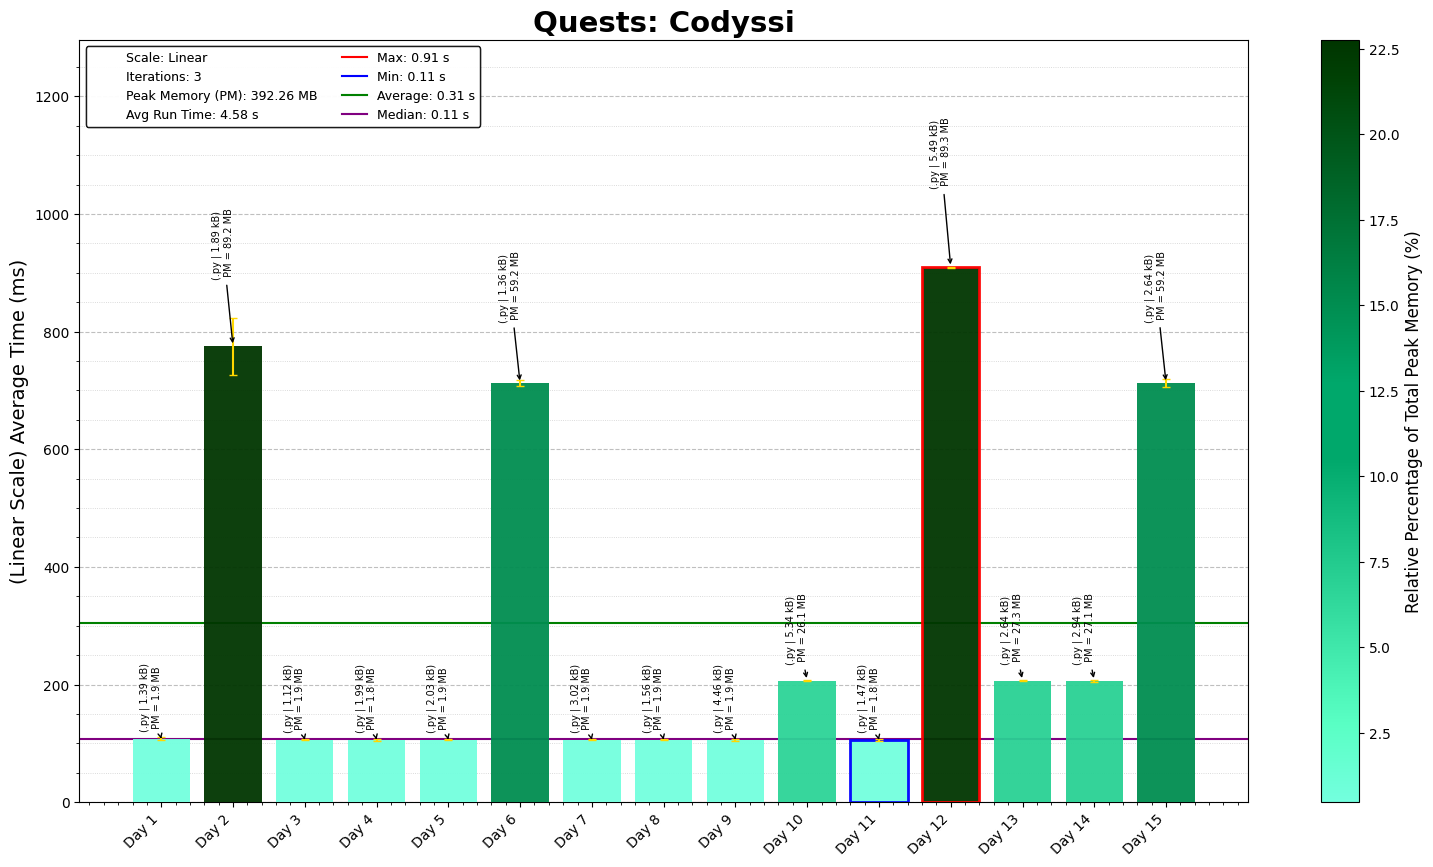
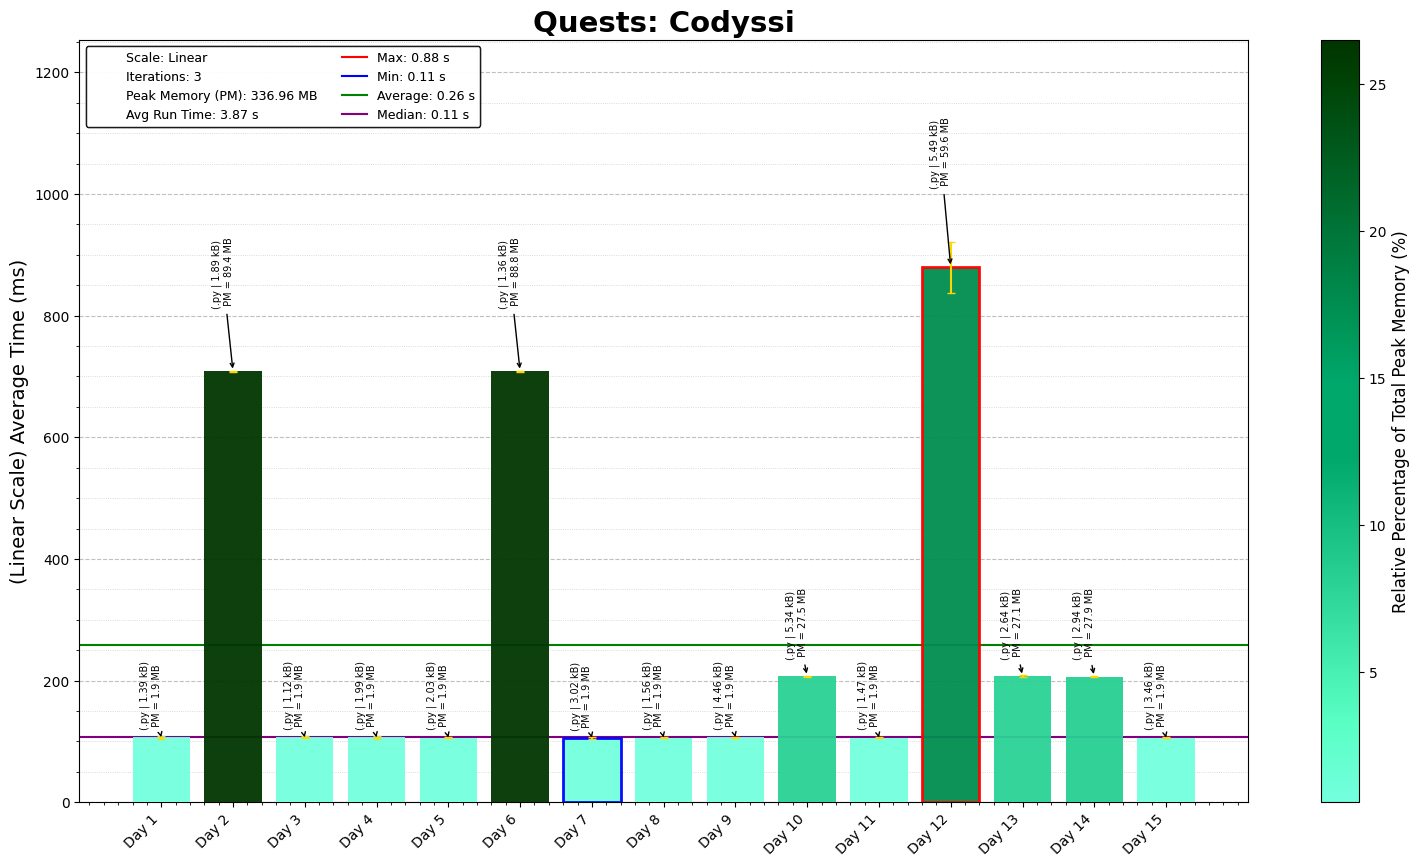
Codyssi Day 15 P2 & 3

diff --git a/Codyssi/2025/15/CodyssiDay15.py b/Codyssi/2025/15/CodyssiDay15.py
@@ -8,30 +8,28 @@ Brief: [Artifacts at Atlantis]
 #!/usr/bin/env python3
 
 import os, re, copy, time
-import numpy as np
-import pandas as pd
-import matplotlib.pyplot as plt
 start_time = time.time()
 
 # Load the input data from the specified file path
-D15_file = "Day15_input1.txt"
+D15_file = "Day15_input.txt"
 D15_file_path = os.path.join(os.path.dirname(os.path.abspath(__file__)), D15_file)
 
 # Read and sort input data into a grid
 with open(D15_file_path) as file:
     input_data = file.read().strip().split('\n\n')
     artifact_dict = {nam: int(val) for idx, line in enumerate(input_data[0].split('\n') )for nam, val in [line.split(' | ')]}
-    artifact_list1 = [(nam, int(val)) for line in input_data[1].split('\n') for nam, val in [line.split(' | ')]]
+    artifact_check = [(nam, int(val)) for line in input_data[1].split('\n') for nam, val in [line.split(' | ')]]
 
 class Archaeologist:
     def __init__(self, artifacts: list[tuple]):
         self.artifact_dict = artifacts
 
-    def __compare_nodes(self, art_code, root_code, layer):
+    def __compare_nodes(self, art_code, root_code, layer, path):
         id_val = self.artifact_dict[art_code]
         root_id = self.artifact_dict[root_code]
 
         direction = "left" if id_val < root_id else "right" if id_val > root_id else None
+        new_path = path + [root_code]
 
         if direction:
             if not self.branch_network[root_code][direction]:
@@ -39,30 +37,53 @@ class Archaeologist:
                 self.branch_network[root_code][direction].append(art_code)
                 self.branch_network[art_code] = {"left": [], "right": []}
                 self.tree_layers.setdefault(layer + 1, []).append(self.artifact_dict[art_code])
+                return new_path + [art_code]
             else:
-                # Recurse to next level
+                # Recurse to next level and return full path
                 child_code = self.branch_network[root_code][direction][0]
-                self.__compare_nodes(art_code, child_code, layer + 1)
+                return self.__compare_nodes(art_code, child_code, layer + 1, new_path)
         else:
-            # Equal ID value, insert at current level if not already present
+            # Equal ID value case
             if art_code not in self.branch_network:
                 self.branch_network[art_code] = {"left": [], "right": []}
                 self.tree_layers.setdefault(layer, []).append(self.artifact_dict[art_code])
+            return new_path + [art_code]
 
     def build_tree(self):
         root_node = next(iter(self.artifact_dict))
         self.branch_network = {}
+        self.artifact_paths = {}
         self.tree_layers = {}
         for artifact in self.artifact_dict.keys():
-            self.__compare_nodes(artifact, root_node, 1)
+            path = self.__compare_nodes(artifact, root_node, 1, [])
+            self.artifact_paths[artifact] = path
+        return self.tree_layers
 
-        layer_sum = [sum(branch) for branch in self.tree_layers.values()]
-        return len(self.tree_layers) * max(layer_sum)
+    def place_artifact(self, new_id):
+        self.artifact_dict["new"] = new_id
+        path = self.__compare_nodes("new", next(iter(self.artifact_dict)), 1, [])
+        return path
+
+    def find_common_ancestor(self, check_artifacts):
+        path_1 = self.artifact_paths[check_artifacts[0][0]]
+        path_2 = self.artifact_paths[check_artifacts[1][0]]
+        lca = None
+        for a, b in zip(path_1, path_2):
+            if a == b:
+                lca = a
+        return lca
 
 expedition = Archaeologist(artifact_dict)
 
 layered_tree = expedition.build_tree()
-print("Part 1:", layered_tree)
+layer_sum = [sum(branch) for branch in layered_tree.values()]
+print("Part 1:", len(layered_tree) * max(layer_sum))
 
-print(f"Execution Time = {time.time() - start_time:.5f}s")
+artifact_path = expedition.place_artifact(500000)
+print("Part 2:", '-'.join(artifact_path[:-1]))
+
+common_artifact = expedition.find_common_ancestor(artifact_check)
+print("Part 3:", common_artifact)
+
+# print(f"Execution Time = {time.time() - start_time:.5f}s")
 
